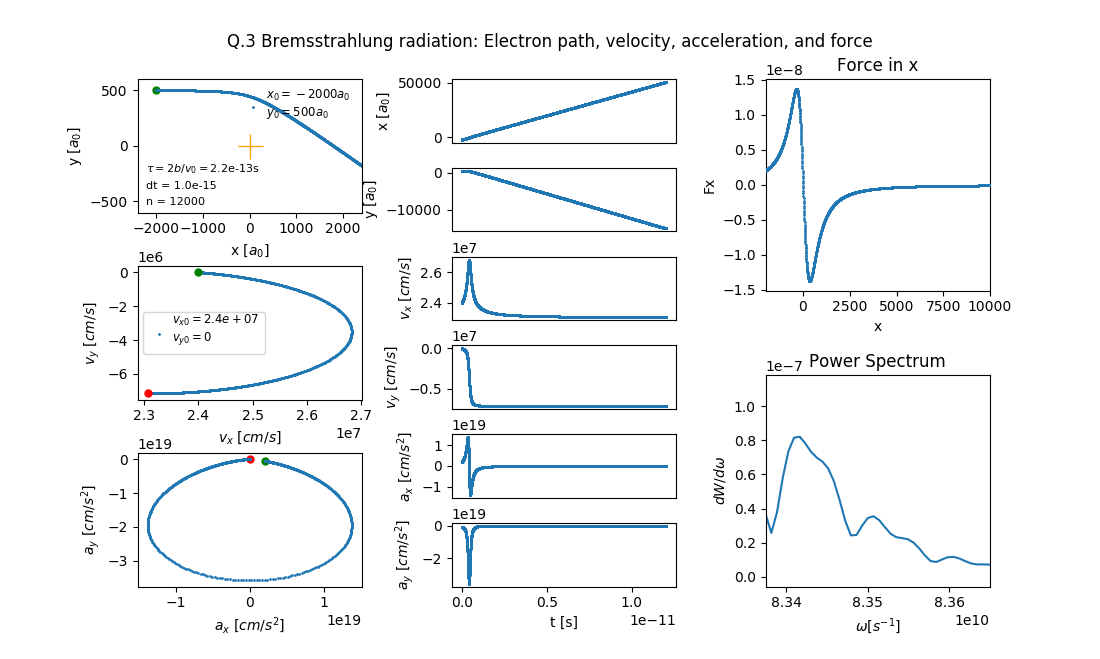
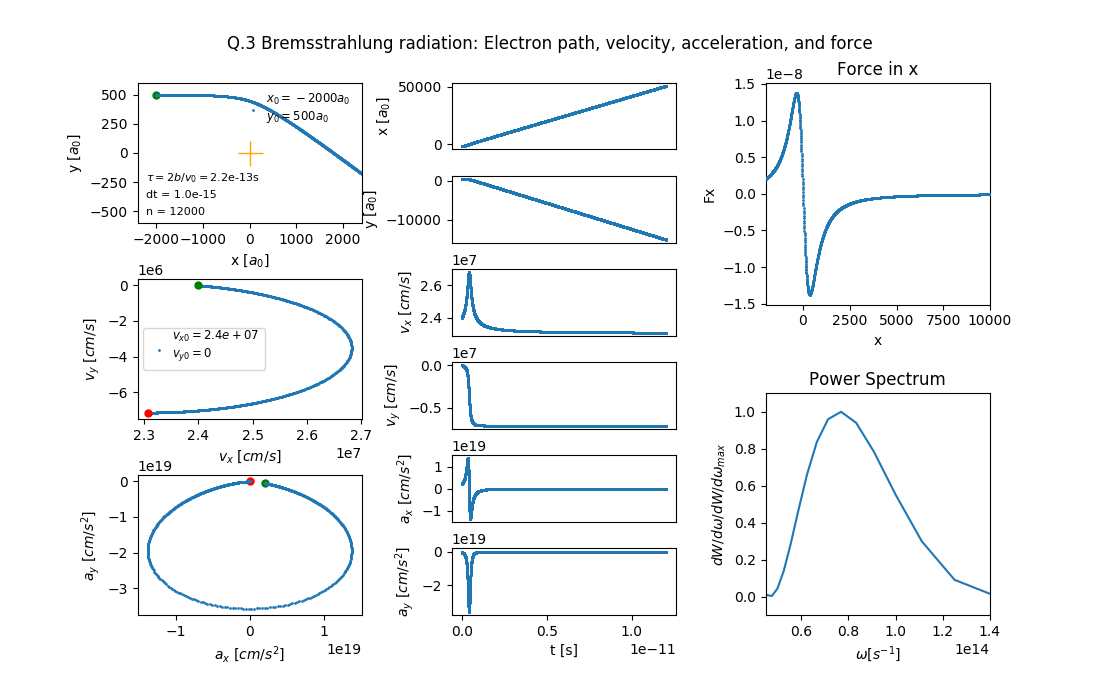
corected spectrum calculation

diff --git a/hw3/brems_rad.py b/hw3/brems_rad.py
@@ -27,6 +27,7 @@ def calc_brems_rad(n, r0, v0, dt, nb):
 
     # Find the power spectrum
     dWdw = find_spec(a_w, dt, r0, v0, ax, ay, t)
+
     freq = 1/t
     
     return dWdw, freq, t, x, y, vx, vy, ax, ay, fx, fy
@@ -57,33 +58,29 @@ def find_path(n, dt, r0, v0):
     ax[-1] = ax[-2]; ay[-1] = ay[-2]; t[0]=t[1]; fx[-1]= fx[-2]; fy[-1]=fy[-2]
     return x, y, vx, vy, ax, ay, t, fx, fy
 
-
 def find_fft(ax, ay, n):
-    """ Calculates the FT of the acceleration."""
-
-    a = (ax, ay)
-    a_w = np.real(np.fft.fft2(a))
+    
+    a = np.sqrt(ax**2 + ay**2)
+    a_w = np.real(np.fft.fft(a))
     return a_w
 
 
 def find_spec(a_w, dt, r0, v0, ax, ay, t):
     """ Calculates the power spectrum of radiation. Not used."""
     # dWdw = 2 e^2 a(ω)^2 / (3 c^3 pi)
-    dWdw = 2 * q**2 * a_w**2 / (3 * np.pi * c**3)
-    
-    # Turn this into 1-d for plotting
-    dWdw_1d = np.zeros(n)
-    for m in range(n): dWdw_1d[m] = np.sqrt(dWdw[0][m]**2 + dWdw[1][m]**2)
-    return dWdw_1d
+
+    dWdw = 2 * q**2 * a_w**2 / (3 * np.pi * c**3)    
+    return dWdw
  
 
 def find_freq_peak(omega, xlim, dWdw):
     """ Finds the frequency at the peak of the power spectrum"""                
 
-    # Limit the range of frequencies                            
+    # Limit the range of frequencies       
+    if xlim is None: xlim = (omega[0], omega[1])     
     omega_lim_inds = np.where((omega >= xlim[0]) & (omega <= xlim[1]))[0]
     omega_lim = omega[omega_lim_inds]
-    dW_lim = dWdw[omega_lim_inds] # find the power at these frequencies
+    dW_lim = dWdw[np.where((omega >= xlim[0]) & (omega <= xlim[1]))[0]]
     # check if the peak of the spectrum is within default freq range
     if len(dW_lim)==0:
         print ('\n\n  *** Default frequency limits are outside of the max '\
@@ -91,17 +88,19 @@ def find_freq_peak(omega, xlim, dWdw):
                 'Try changing the default frequency range with \'--xlim <xmin> <xmax>\'' \
                 '\n Path is saved to 1_path.png. Exiting.')
         sys.exit()
-    omega_max = omega_lim[np.where(dW_lim == max(dW_lim))][0] # find omega_max
-    return omega_max
+        
+    dWdw_max = max(dW_lim)
+    omega_max = omega_lim[np.where(dW_lim == dWdw_max)][0] # find omega_max
+    return omega_max, dWdw_max
 
 
 def plot_brems_rad(nb=None, v0=None, n=None, x=None, y=None, vx=None, vy=None, 
                    ax=None, ay=None, fx=None, fy=None, t=None, dWdw=None, omega=None, 
                    b=None, v=None, omega_b=None, omega_v=None, newfig=True, 
                    plotpath=False, plotspectrum=False, plotvariation=False, 
-                   xlim_w=(1e13, 1.8e14), ylim_w=None, figure=None, omega_max=None,
+                   xlim_w=None, ylim_w=None, figure=None, omega_max=None,
                    ms=2, Z=1, pos=411, varystr=None, savefig=False, panel=True,
-                   varyparam=None):
+                   varyparam=None, varyaxes=[0.65, 0.42, 0.24, 0.24]):
     """
     Plots the path of the electron, the force along the path, the spectrum of 
     the emitted radiation, and the change in peak frequency with impact 
@@ -197,10 +196,15 @@ def plot_brems_rad(nb=None, v0=None, n=None, x=None, y=None, vx=None, vy=None,
         
         spec = plt.subplot(2, 3, 6)     # Power spectrum
         spec.set_title('Power Spectrum')
+        # normalize to max dWdw in the freq range of interest
+        omega_max, dWdw_max = find_freq_peak(omega, xlim_w, dWdw)
+        dWdw = dWdw/dWdw_max
+        
         spec.plot(omega, dWdw)
-        spec.set_ylabel('$dW/d\omega$')
+        spec.set_ylabel('$dW/d\omega/dW/d\omega _{max}$')
         spec.set_xlabel('$\omega[s^{-1}]$')
-        spec.set_xlim(xlim_w)
+        if xlim_w is not None: spec.set_xlim(xlim_w)
+        spec.set_ylim(-0.1, 1.1)
 
         plt.subplots_adjust(hspace=0.4, wspace=0.4)
         
@@ -221,7 +225,8 @@ def plot_brems_rad(nb=None, v0=None, n=None, x=None, y=None, vx=None, vy=None,
 
         plt.plot(omega, dWdw, label=leglabel)
         plt.ylabel('$dW/d\omega/dW/d\omega _{max}$')
-        plt.xlim(xlim_w)        
+        if xlim_w is not None: plt.xlim(xlim_w)
+        if ylim_w is not None: plt.ylim(ylim_w)
         plt.xlabel('$\omega[s^{-1}]$')
         plt.legend(numpoints=1, loc=1, fontsize='small')
 
@@ -229,7 +234,7 @@ def plot_brems_rad(nb=None, v0=None, n=None, x=None, y=None, vx=None, vy=None,
 
 
     if plotvariation:
-        l, b, w, h = [0.65, 0.42, 0.24, 0.24] # adding an inset axis
+        l, b, w, h = varyaxes # adding an inset axis
         axvary = figure.add_axes([l, b, w, h])
 
         if varystr == 'impact parameter': 
@@ -277,7 +282,7 @@ if __name__ == '__main__':
                         (vx(0), vy(0))' )
     parser.add_argument('--n', action='store', default=12000,
                         type=int, help='Enter number of steps (int)' )
-    parser.add_argument('--xlim', nargs='+', action='store', default=[8.3375e10, 8.365e10],
+    parser.add_argument('--xlim', nargs='+', action='store', default=[4.5e13,1.4e14],#[2.76e13,8e13],#[8.3375e10, 8.365e10],
                         type=float, help='Enter limits of frequency axis \
                         --xlim min max' )
     args = parser.parse_args()
@@ -303,14 +308,14 @@ if __name__ == '__main__':
     dWdw, omega, t, x, y, vx, vy, ax, ay, fx, fy = calc_brems_rad(n, r0, v0, dt, nb)
 
     # trim dWdw and omega to discard most zero values of the spectrum
-    dWdw = dWdw[-int(0.01*n):-1]; omega = omega[-int(0.01*n):-1]
+    # dWdw = dWdw[-int(0.01*n):-1]; omega = omega[-int(0.01*n):-1]
     
     
 # =================== Plot path, velocity, and acceleration ====================
 
     print ('... Plotting the path ...')
-    plot_brems_rad(nb, v0, n, x, y, vx, vy, ax, ay, fx, fy, t=t, dWdw=dWdw, 
-                    omega=omega, savefig=savefig, xlim_w=xlim, plotpath=True)
+    plot_brems_rad(nb, v0, n, x, y, vx, vy, ax, ay, fx, fy, t, dWdw, omega, 
+                    savefig=savefig, xlim_w=xlim, plotpath=True)
 
     print ('===> Electron path plots saved to \'1_path_spectrum.png\' \n')
     
@@ -331,16 +336,16 @@ if __name__ == '__main__':
         r0 = (nb[0]*a0, b[j]*a0)
         dWdw, omega, t, x, y, vx, vy, ax, ay, fx, fy = calc_brems_rad(n, r0, v0, dt, nb)
 
-        # trim dWdw and omega to discard most zero values of the spectrum
-        dWdw = dWdw[-int(0.01*n):-1]; omega = omega[-int(0.01*n):-1]
-
-        omega_max = find_freq_peak(omega, xlim, dWdw) # get peak freq
+        omega_max, dWdw_max = find_freq_peak(omega, xlim, dWdw) # get peak freq
         omega_max_b.append(omega_max)
+
         fig_b = plot_brems_rad((nb[0], b[j]), v0, dWdw=dWdw, omega=omega, 
                         newfig=newfig, plotspectrum=True, omega_b=omega_max, 
-                        xlim_w=xlim, varystr=varystr, savefig=savefig)
+                        xlim_w=xlim, varystr=varystr, savefig=savefig,
+                        ylim_w=(-0.03, 0.41))
         if j==0: figvary=fig_b
 
+    print ('vary str should be b', varystr)
 # ============ Plot how peak of power spectrum varies with b ===================
     for j in range(l_b):
         omega_max = omega_max_b[j]/max(omega_max_b)
@@ -351,6 +356,7 @@ if __name__ == '__main__':
             ' \'2_spec_vary_b.png\'')
 
 
+    xlim_w = [4.5e13, 1.67e14]
     print ('\n... Plotting the power spectrum, varying v0 ...')
     omega_max_v=[]; varystr='initial velocity'
     for j in range(l_v):
@@ -360,19 +366,21 @@ if __name__ == '__main__':
         
         v0 = (v[j], v0[1])
         dWdw, omega, t, x, y, vx, vy, ax, ay, fx, fy = calc_brems_rad(n, r0, v0, dt, nb)
-        dWdw = dWdw[-int(0.01*n):-1]; omega = omega[-int(0.01*n):-1]
-        omega_max = find_freq_peak(omega, xlim, dWdw) # get peak freq
+        
+        omega_max, dWdw_max = find_freq_peak(omega, xlim, dWdw) # get peak freq
         omega_max_v.append(omega_max)
+        
         fig_v = plot_brems_rad(nb, v0, dWdw=dWdw, omega=omega, newfig=newfig, 
-                        plotspectrum=True, xlim_w=xlim, varystr=varystr,
-                        savefig=savefig, panel=False, omega_v=omega_max)
+                        plotspectrum=True, xlim_w=xlim, panel=False, 
+                        omega_v=omega_max, ylim_w=(-0.03, 0.14))
         if j==0: figvary=fig_v
-
+    print ('vary str should be v0', varystr)
 # ============ Plot how peak of power spectrum varies with v0 ==================
     for j in range(l_v):
         omega_max = omega_max_v[j]/max(omega_max_v)
         plot_brems_rad(b=b, v=v[j], omega_max=omega_max, plotvariation=True, 
-                   savefig=savefig, figure=figvary, varyparam=v[j], varystr=varystr)
+                   savefig=savefig, figure=figvary, varyparam=v[j], 
+                   varyaxes=[0.45, 0.18, 0.17, 0.17], varystr=varystr)
 
     print ('===> Radiation power spectrum varying initial velocity plots '
             'saved to \'3_spec_vary_v.png\' ')
